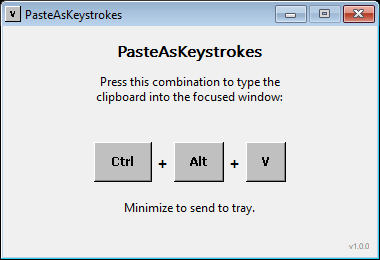
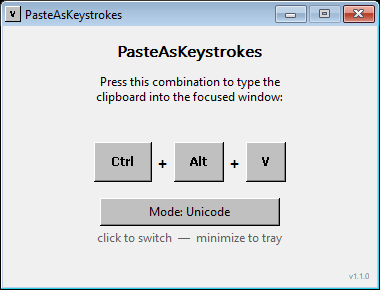
v1.1.0: añade selector de modo Unicode / Scancode US en la ventana
Introduce dos modos de inyección de teclado seleccionables en runtime
mediante un botón clicable en la ventana, siguiendo el patrón de
herramientas como KeePass y 1Password (que también ofrecen modo dual
porque no existe un mecanismo universal):

- Modo Unicode (default): envía caracteres con KEYEVENTF_UNICODE. Ideal
  para apps locales Windows, navegadores, AnyDesk, RDP y todo lo que
  acepte texto Unicode directo.
- Modo Scancode US: envía scancodes PS/2 US hardcoded con
  KEYEVENTF_SCANCODE más AttachThreadInput. Ideal para visores KVM /
  IPMI / iDRAC / iLO HTML5 y similares que reenvían scancodes crudos a
  targets configurados en US.

La ventana muestra el modo activo con el mismo estilo de keycap Win95
y un texto en gris debajo indica que se puede clicar para cambiar. El
cursor cambia a "mano" sobre el botón. La altura de la ventana sube de
260 a 290 px para acomodar el nuevo control.

Actualiza el README documentando los dos modos, cuándo usar cada uno y
la limitación fundamental de cross-layout que aplica a todo el sector.

diff --git a/paste_as_keystrokes.c b/paste_as_keystrokes.c
@@ -5,6 +5,7 @@
 #define UNICODE
 #define _UNICODE
 #include <windows.h>
+#include <windowsx.h>
 #include <shellapi.h>
 #include <stdlib.h>
 #include <string.h>
@@ -15,7 +16,9 @@
 #define IDM_SHOW    1001
 #define IDM_EXIT    1002
 #define KEY_DELAY_MS 5
-#define APP_VERSION L"1.0.0"
+#define APP_VERSION L"1.1.0"
+#define MODE_UNICODE  0
+#define MODE_SCANCODE 1
 
 static const wchar_t CLASS_NAME[]   = L"PasteAsKeystrokesWnd";
 static const wchar_t WINDOW_TITLE[] = L"PasteAsKeystrokes";
@@ -26,6 +29,8 @@ static BOOL g_tray_added = FALSE;
 static HICON g_icon_large = NULL;
 static HICON g_icon_small = NULL;
 static HKL   g_us_layout  = NULL;
+static int   g_mode       = MODE_UNICODE;
+static RECT  g_mode_btn   = {0};
 
 static HICON create_key_icon(int size) {
     HDC screen = GetDC(NULL);
@@ -316,15 +321,18 @@ static void type_clipboard(void) {
         return;
     }
 
-    HWND  fg        = GetForegroundWindow();
-    DWORD fg_thread = fg ? GetWindowThreadProcessId(fg, NULL) : 0;
     DWORD my_thread = GetCurrentThreadId();
+    DWORD fg_thread = 0;
     BOOL  attached  = FALSE;
     HKL   prev_layout = NULL;
-    if (g_us_layout && fg_thread && fg_thread != my_thread) {
-        if (AttachThreadInput(my_thread, fg_thread, TRUE)) {
-            attached = TRUE;
-            prev_layout = ActivateKeyboardLayout(g_us_layout, KLF_SETFORPROCESS);
+    if (g_mode == MODE_SCANCODE) {
+        HWND fg = GetForegroundWindow();
+        fg_thread = fg ? GetWindowThreadProcessId(fg, NULL) : 0;
+        if (g_us_layout && fg_thread && fg_thread != my_thread) {
+            if (AttachThreadInput(my_thread, fg_thread, TRUE)) {
+                attached = TRUE;
+                prev_layout = ActivateKeyboardLayout(g_us_layout, KLF_SETFORPROCESS);
+            }
         }
     }
 
@@ -342,8 +350,10 @@ static void type_clipboard(void) {
                    && *(p + 1) >= 0xDC00 && *(p + 1) <= 0xDFFF) {
             send_surrogate_pair(c, *(p + 1));
             p++;
-        } else {
+        } else if (g_mode == MODE_SCANCODE) {
             send_char_via_layout(c);
+        } else {
+            send_unicode_char(c);
         }
         Sleep(KEY_DELAY_MS);
     }
@@ -441,11 +451,23 @@ static void draw_window(HWND hwnd) {
     DrawTextW(hdc, L"+", -1, &plus2, DT_CENTER | DT_VCENTER | DT_SINGLELINE);
     draw_key_90s(hdc, kx + kw_ctrl + gap + kw_alt + gap, key_y, kw_v, key_h, L"V", key_font);
 
+    int btn_w = 180, btn_h = 28;
+    int btn_x = (rc.right - btn_w) / 2;
+    int btn_y = 172;
+    g_mode_btn.left = btn_x; g_mode_btn.top = btn_y;
+    g_mode_btn.right = btn_x + btn_w; g_mode_btn.bottom = btn_y + btn_h;
+    draw_key_90s(hdc, btn_x, btn_y, btn_w, btn_h,
+        g_mode == MODE_SCANCODE ? L"Mode: Scancode US" : L"Mode: Unicode",
+        body_font);
+
     SelectObject(hdc, body_font);
-    RECT hint_rc = rc;
-    hint_rc.top = 174;
-    hint_rc.bottom = hint_rc.top + 22;
-    DrawTextW(hdc, L"Minimize to send to tray.", -1, &hint_rc, DT_CENTER | DT_SINGLELINE);
+    SetTextColor(hdc, RGB(96, 96, 96));
+    RECT click_rc = rc;
+    click_rc.top    = btn_y + btn_h + 4;
+    click_rc.bottom = click_rc.top + 18;
+    DrawTextW(hdc, L"click to switch  —  minimize to tray",
+        -1, &click_rc, DT_CENTER | DT_SINGLELINE);
+    SetTextColor(hdc, RGB(0, 0, 0));
 
     HFONT ver_font = CreateFontW(11, 0, 0, 0, FW_NORMAL, FALSE, FALSE, FALSE,
         DEFAULT_CHARSET, OUT_DEFAULT_PRECIS, CLIP_DEFAULT_PRECIS,
@@ -476,6 +498,24 @@ static LRESULT CALLBACK WndProc(HWND hwnd, UINT msg, WPARAM wp, LPARAM lp) {
         case WM_HOTKEY:
             if (wp == HOTKEY_ID) type_clipboard();
             return 0;
+        case WM_LBUTTONUP: {
+            POINT pt = { GET_X_LPARAM(lp), GET_Y_LPARAM(lp) };
+            if (PtInRect(&g_mode_btn, pt)) {
+                g_mode = (g_mode == MODE_UNICODE) ? MODE_SCANCODE : MODE_UNICODE;
+                InvalidateRect(hwnd, NULL, TRUE);
+            }
+            return 0;
+        }
+        case WM_SETCURSOR: {
+            POINT pt;
+            GetCursorPos(&pt);
+            ScreenToClient(hwnd, &pt);
+            if (PtInRect(&g_mode_btn, pt)) {
+                SetCursor(LoadCursorW(NULL, IDC_HAND));
+                return TRUE;
+            }
+            break;
+        }
         case WM_SYSCOMMAND:
             if ((wp & 0xFFF0) == SC_MINIMIZE) {
                 ShowWindow(hwnd, SW_HIDE);
@@ -536,7 +576,7 @@ int WINAPI WinMain(HINSTANCE hInst, HINSTANCE hPrev, LPSTR cmd, int show) {
         return 1;
     }
 
-    int w = 380, h = 260;
+    int w = 380, h = 290;
     int x = (GetSystemMetrics(SM_CXSCREEN) - w) / 2;
     int y = (GetSystemMetrics(SM_CYSCREEN) - h) / 2;
 

diff --git a/README.md b/README.md
@@ -2,8 +2,8 @@
 
 ![PasteAsKeystrokes window](window.png)
 
-Tiny Windows utility (~575 lines of C, no dependencies, no installer, single
-~30 KB `.exe`) that types the current clipboard contents as real keyboard
+Tiny Windows utility (~615 lines of C, no dependencies, no installer, single
+~36 KB `.exe`) that types the current clipboard contents as real keyboard
 input into the focused window.
 
 Useful where `Ctrl+V` is blocked or unavailable: remote consoles (SSH, KVM,
@@ -14,16 +14,16 @@ and similar places.
 
 Grab the pre-built executable from the [latest GitHub release](https://github.com/esp3tek/PasteAsKeystrokes/releases/latest):
 
-**[PasteAsKeystrokes.exe](https://github.com/esp3tek/PasteAsKeystrokes/releases/latest/download/PasteAsKeystrokes.exe)** (~35 KB, no installer).
+**[PasteAsKeystrokes.exe](https://github.com/esp3tek/PasteAsKeystrokes/releases/latest/download/PasteAsKeystrokes.exe)** (~36 KB, no installer).
 
 Just double-click to run.
 
 ### Verify the binary (optional)
 
-The current build has SHA-256:
+Current build (v1.1.0) SHA-256:
 
 ```
[2 lines of base64/hex data omitted]
 ```
 
 On Windows: `Get-FileHash PasteAsKeystrokes.exe -Algorithm SHA256`
@@ -37,34 +37,67 @@ the SHA-256 above and read the entire source in this repo).
 
 To run it: click **More info** → **Run anyway**.
 
-The warning will go away by itself once the binary has been downloaded
-enough times to build reputation, or sooner if it gets whitelisted by
-Microsoft (see *Reporting to Microsoft* below).
-
 ## Usage
 
-1. Run `PasteAsKeystrokes.exe`. A small window appears.
+1. Run `PasteAsKeystrokes.exe`. The window shows the current input mode
+   (default: **Unicode**) and a clickable button to switch it.
 2. Copy text to the clipboard.
-3. Switch focus to the target window (terminal, console, etc).
+3. Switch focus to the target window.
 4. Press **Ctrl + Alt + V**. The text is typed character by character.
 
-- `Enter` and `Tab` from the clipboard are sent as real `ENTER` / `TAB` keys.
-- Printable ASCII is sent using hardcoded US scan codes
-  (`KEYEVENTF_SCANCODE`), so what the target receives matches a physical US
-  keyboard regardless of the local Windows layout.
-- Non-ASCII characters (accents, CJK, emoji, surrogate pairs) fall back to
-  Unicode injection (`KEYEVENTF_UNICODE`).
-- Before typing, the app attaches its input queue to the foreground thread
-  and activates the US layout, so apps that look at translated characters
-  rather than scan codes also see correct US characters.
-- The clipboard is **not modified**.
-- Minimize the window to send it to the system tray. Right-click the tray
-  icon for `Show` / `Exit`.
+Minimize the window to send it to the system tray. Right-click the tray
+icon for `Show` / `Exit`. The clipboard is never modified.
+
+## Input modes
+
+The app offers **two injection modes** because no single mechanism works
+for every target — this is the same approach professional tools like
+KeePass and 1Password take. Click the button below the keycaps to switch.
+
+### Unicode mode (default)
+
+Injects characters via `KEYEVENTF_UNICODE`. The target receives the
+*literal Unicode codepoint*, independent of any keyboard layout.
+
+Best for:
+- Local Windows applications (Notepad, browsers, code editors, password fields).
+- Remote desktop tools that forward characters (AnyDesk, RDP when configured
+  with "Apply Windows key combinations on remote", TeamViewer).
+- Anywhere the target speaks plain Unicode text.
+
+Fails or gets dropped in: KVMs and IPMI consoles that only forward raw
+keyboard scancodes (most browser-based HTML5 KVMs).
+
+### Scancode US mode
+
+Injects hardcoded US PS/2 scancodes via `KEYEVENTF_SCANCODE`, exactly like a
+physical US keyboard would. Before typing, attaches the input queue to the
+foreground thread and activates the US layout to align local apps too.
+
+Best for:
+- Browser-based KVM / IPMI / iDRAC / iLO HTML5 consoles, where the target
+  Linux/Unix server uses the **US layout** (the default for AlmaLinux,
+  Rocky, RHEL, Debian, Ubuntu, FreeBSD, etc.).
+- BIOS / UEFI screens.
+- Virtual machine console viewers (Proxmox, OpenNebula, vSphere) when the
+  guest is on US layout.
+
+Fails when: the target system is on a non-US layout. In that case the
+emitted US scancodes get reinterpreted by the target's layout and produce
+the wrong characters.
+
+### Newlines, tabs, Unicode beyond ASCII
+
+In both modes:
+- `\r\n`, `\r`, `\n` are sent as the `Enter` key.
+- `\t` is sent as Unicode `U+0009`.
+- Non-ASCII characters (accents, CJK, emoji, surrogate pairs) always use
+  `KEYEVENTF_UNICODE` — there is no ASCII fallback for those.
+- BOM (`U+FEFF`) at the start of the clipboard is stripped silently.
 
 ## Build from source
 
-Requires either **MSVC** (`cl.exe`, from Visual Studio Build Tools) or
-**MinGW-w64** (`gcc`) on `PATH`.
+Requires either **MSVC** (`cl.exe`) or **MinGW-w64** (`gcc`) on `PATH`.
 
 ```
 build.bat
@@ -73,32 +106,30 @@ build.bat
 Manual MinGW build:
 
 ```
-gcc paste_as_keystrokes.c -o PasteAsKeystrokes.exe -mwindows -luser32 -lshell32 -lgdi32 -s -O2
+windres resources.rc -O coff -o resources.o
+gcc paste_as_keystrokes.c resources.o -o PasteAsKeystrokes.exe -mwindows -luser32 -lshell32 -lgdi32 -s -O2
 ```
 
-Manual MSVC build:
+## The cross-layout reality
 
-```
-cl /O2 paste_as_keystrokes.c /link /SUBSYSTEM:WINDOWS user32.lib shell32.lib gdi32.lib
-```
+There is no client-side trick that makes keyboard injection work everywhere,
+because the receiver — KVM viewer, target OS, USB HID translator — applies
+its *own* layout to whatever scancodes you send. KeePass, AutoHotkey and
+similar tools all document this limitation and tell users to match layouts
+manually. PasteAsKeystrokes follows the same best practice: offer two
+honest modes and let you pick.
 
-## Notes on remote consoles (KVMs, RDP)
+Universal rule for remote consoles:
 
-The app assumes the target system uses a **US keyboard layout** (the default
-for most Linux servers, BMCs and BIOSes). For HTML5 / noVNC web consoles
-(IONOS, Proxmox, OpenNebula, …), the visor often has its own keyboard
-selector. Universal rule:
+> KVM viewer layout = local Windows layout = target OS layout
 
-> Visor layout = local Windows layout = target OS layout
-
-If all three line up, everything works. If any of them disagrees, characters
-get mistranslated regardless of the typing tool.
+If all three agree, everything works regardless of which injection mode
+you pick.
 
 ## Other notes
 
 - Single-instance: launching twice brings the existing window to the front.
-- Typing speed: ~5 ms per character (fast enough to feel instant, slow enough
-  that remote consoles don't drop input).
+- Typing speed: ~5 ms per character.
 - Modifier release: the app polls until you physically release `Ctrl`,
   `Alt`, `Shift`, `Win` (max 500 ms) before injecting, so holding the hotkey
   a moment longer doesn't corrupt the first character.
